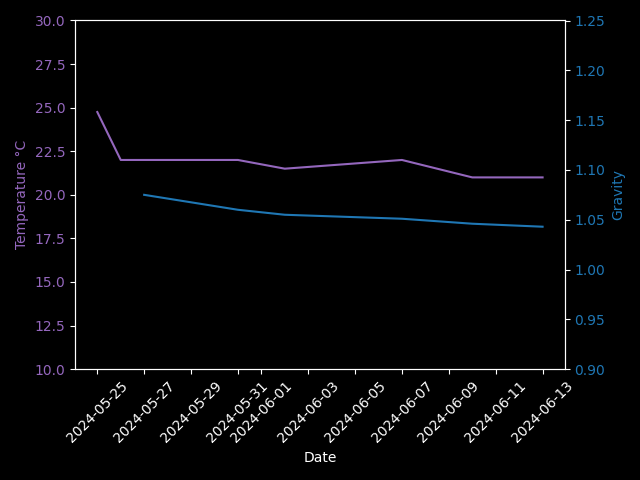
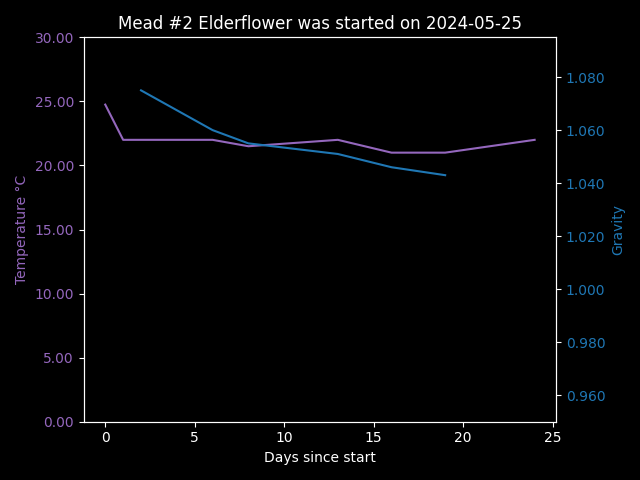
2024-06-18

diff --git a/AutoGraph.py b/AutoGraph.py
@@ -5,6 +5,7 @@ from typing import NamedTuple
 
 import matplotlib.pyplot
 import matplotlib.pyplot as plt
+from matplotlib import ticker
 
 FementDataRegex = re.compile(r"\|(|[^\|]+)\|(|[^\|]+)\|(|[^\|]+)\|(?:.+)")
 
@@ -51,6 +52,7 @@ def get_recipe_list() -> list[Path]:
 
 
 def get_recipe_fermentation_data(tar: Path) -> list[FermentDataPoint]:
+    """ Extracts data from a .md file, this is not a smart method, I should be doing better here"""
     with open(tar, 'r') as f:
         md_text = f.read()
     ferm_list = []
@@ -79,36 +81,57 @@ def get_recipe_fermentation_data(tar: Path) -> list[FermentDataPoint]:
 
 
 def make_graph(tar, data_: list[FermentDataPoint]):
+    """ I should not be allowed to use PyPlot """
+
     plt.style.use('dark_background')
+    # plot setup
     fig, ax1 = plt.subplots()
     fig: matplotlib.pyplot.Figure
     ax1: matplotlib.pyplot.Axes
+    # data needs to be in a different layout, should have planne for this earlier
     data = ([], [], [])
+    date_min = min(data_).date
     for d in data_:
-        data[0].append(d.date)
+        # Dates are less useful
+        data[0].append((d.date - date_min).days)
         data[1].append(d.temp)
         data[2].append(d.grav)
-    c1 = "tab:purple"
-    ax1.plot(data[0], data[1], color=c1)
-    ax1.tick_params(axis='y', labelcolor=c1)
-    ax1.set_ylabel("Temperature °C", color=c1)
+    colour_1 = "tab:purple"
+    colour_2 = "tab:blue"
+
+    ax1.plot(data[0], data[1], color=colour_1)
+    ax1.tick_params(axis='y', labelcolor=colour_1)
+    ax1.set_ylabel("Temperature °C", color=colour_1)
     ax1.set(
-        xlabel="Date",
-        ylim=[10, 30],
+        xlabel="Days since start",
+        ylim=[0, 30], # brewing outside the 0-30c range seems like a no-no, might modify one day
     )
 
-    ax1.tick_params(axis='x', rotation=45)
-
-    c2 = "tab:blue"
     ax2 = ax1.twinx()
-    ax2.plot(data[0], data[2], color=c2)
-    ax2.tick_params(axis='y', labelcolor=c2)
-    ax2.set_ylabel("Gravity", color=c2)
-    ax2.set(ylim=[0.9, 1.25], )
+    ax2.plot(data[0], data[2], color=colour_2)
+    ax2.tick_params(axis='y', labelcolor=colour_2)
+    ax2.set_ylabel("Gravity", color=colour_2)
+    ax2.set(
+        ylim=[
+            0.95,  # I don't think we'll be going below 0.950, might have to modify later
+            (max((d or 0 for d in data[2])) + 0.02) or 1.5  # crop the top of gravity if not used
+        ], )
+
+    # formatters
+    ax1.xaxis.set_major_formatter(ticker.FormatStrFormatter('%.0f'))
+    ax1.yaxis.set_major_formatter(ticker.FormatStrFormatter('%.2f'))
+    ax2.yaxis.set_major_formatter(ticker.FormatStrFormatter('%.3f'))
+
+    ax1.set_title(
+        f"Mead {tar.name.rsplit('.', 1)[0]} was started on {date_min.isoformat()}"
+    )
+
     fig.tight_layout()
     fig.savefig(tar)
 
+
 def apply_over_recipes():
+
     for target in get_recipe_list():
         data = get_recipe_fermentation_data(target)
         if len(data) < 2:

diff --git a/Recipe List/#1 Standard.md b/Recipe List/#1 Standard.md
@@ -47,7 +47,7 @@ Yeast Food:
 | 2024-06-07 | 22.00           | 1.053   |                                                      |
 | 2024-06-10 | 21.00           | 1.048   |                                                      |
 | 2024-06-13 | 21.00           | 1.045   |                                                      |
-|            |                 |         |                                                      |
+| 2024-06-18 | 22.00           |         |                                                      |
 |            |                 |         |                                                      |
 |            |                 |         |                                                      |
 |            |                 |         |                                                      |

diff --git a/Recipe List/#2 Elderflower.md b/Recipe List/#2 Elderflower.md
@@ -48,7 +48,7 @@ Yeast Food:
 | 2024-06-07 | 22.00           | 1.051   | Agitated 2x                                          |
 | 2024-06-10 | 21.00           | 1.046   |                                                      |
 | 2024-06-13 | 21.00           | 1.043   |                                                      |
-|            |                 |         |                                                      |
+| 2024-06-18 | 22.00           |         |                                                      |
 |            |                 |         |                                                      |
 |            |                 |         |                                                      |
 |            |                 |         |                                                      |
